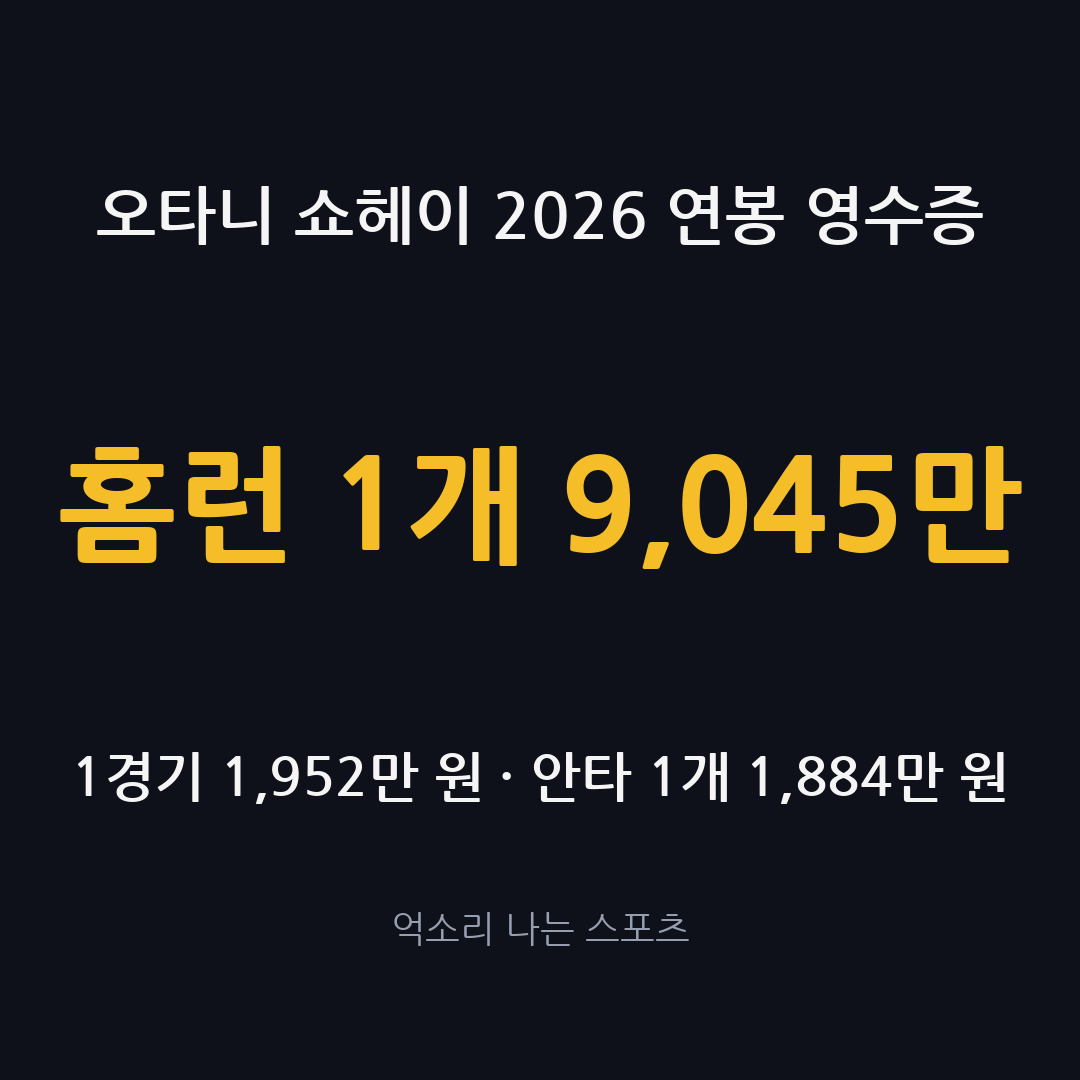
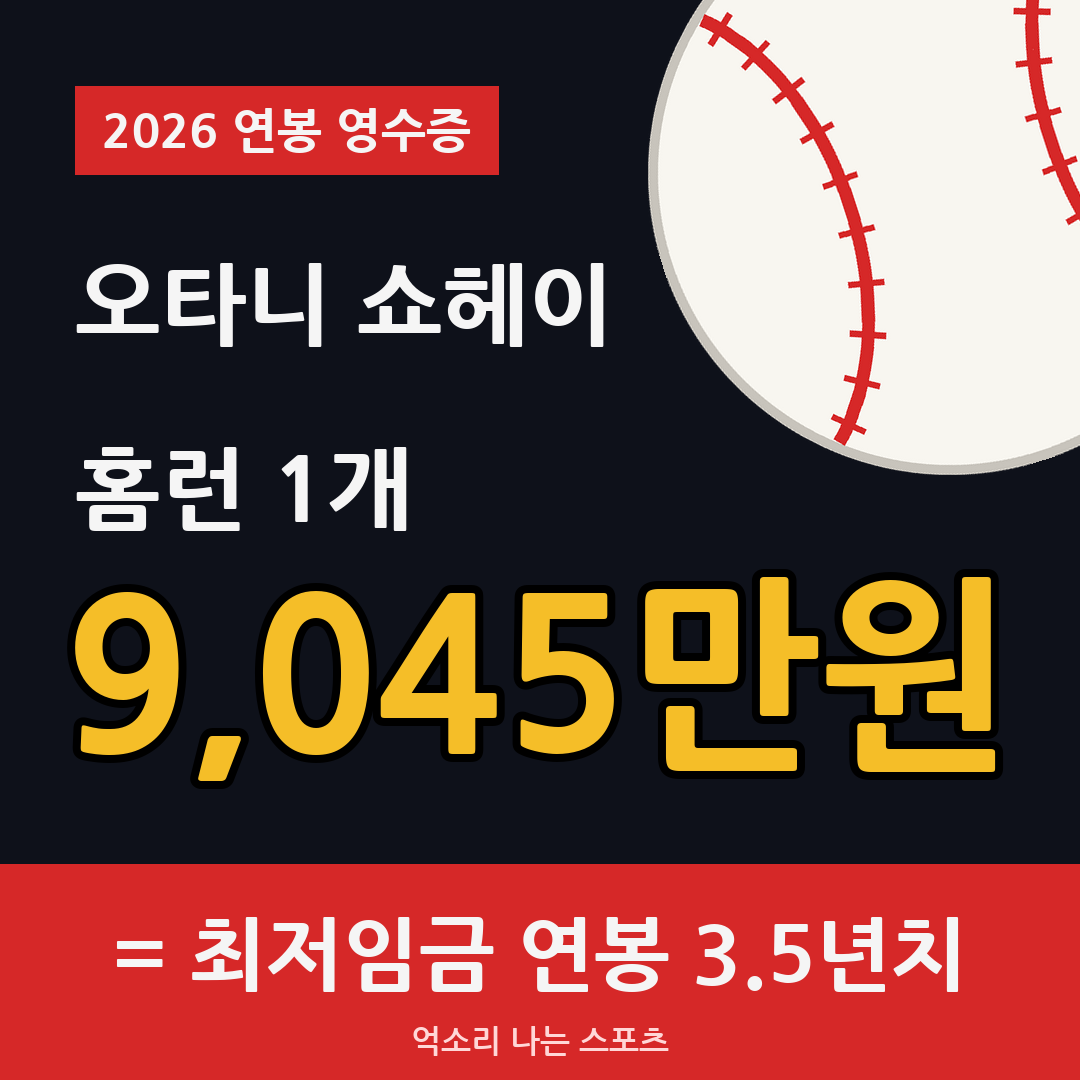
썸네일 강화 + 본문 이미지 4장 (대표 요청)
- 썸네일: 종목 아이콘(코드로 직접 그림, 사진 없음) + 선수 이름 + 아주 큰 금액 + 빨간 띠 '= 최저임금 연봉 N년치'
- 새 이미지: compare.png(최저임금 몇 년치 막대), season.png(시즌 성적 카드, 제목 기록을 금색 첫 칸)
- 자동 글쓰기: 이미지 자리 4개를 글 흐름에 나눠 넣도록 규칙·검사 변경
- 오타니·이정후 발행 대기 글을 새 이미지 4장으로 갱신

Claude-Session: https://claude.ai/code/session_01HNJTaMMcXgMjQhv2iW7WGc

diff --git a/content/receipt.py b/content/receipt.py
@@ -1,6 +1,7 @@
 """선수 몸값 영수증: 연봉을 경기·타수·안타·홈런 단위로 쪼개고, 영수증 그래픽과 홈판 썸네일을 만든다.
 
-계산은 코드로 한다 (14.1). 입력은 posts/<글>/data.yaml, 출력은 같은 폴더의 numbers.json·receipt.png·thumb.png.
+계산은 코드로 한다 (14.1). 입력은 posts/<글>/data.yaml, 출력은 같은 폴더의 numbers.json과
+이미지 4장: thumb.png(홈판 카드), receipt.png(영수증), compare.png(최저임금 비교), season.png(시즌 성적 카드).
 사용법: BRAND_FONT_DIR=/path/to/fonts python -m content.receipt posts/<글>
 """
 from __future__ import annotations
@@ -13,6 +14,7 @@ import yaml
 from PIL import Image, ImageDraw
 
 from .brand import BG, GOLD, GRAY, WHITE, center_text, fit, font
+from .sportsart import icon
 
 PAPER = (250, 247, 238)
 INK = (30, 32, 40)
@@ -120,20 +122,105 @@ def receipt_image(d: dict, n: dict, w: int = 1080) -> Image.Image:
     return im.crop((0, 0, w, min(h, end + int(h * 0.05))))
 
 
+RED = (214, 40, 40)
+TILE = (28, 33, 48)
+
+
+def short_won(x: float) -> str:
+    """썸네일용: 가장 큰 단위만 (2억 32만 원 → 2억원, 9,045만 원 → 9,045만원)."""
+    return won(x).split(" ")[0] + "원"
+
+
 def thumb_image(d: dict, n: dict, w: int = 1080) -> Image.Image:
+    """홈판 카드: 종목 아이콘 + 선수 이름 + 아주 큰 금액 + 빨간 띠(최저임금 비교)."""
     im = Image.new("RGB", (w, w), BG)
+    ball = icon(d.get("sport", "야구"), int(w * 0.56)).rotate(18, resample=Image.BICUBIC)
+    im.paste(ball, (int(w * 0.6), int(-w * 0.12)), ball)
     dr = ImageDraw.Draw(im)
-    center_text(dr, (w / 2, w * 0.2), f"{d['player']} {d['season']} 연봉 영수증", fit(dr, f"{d['player']} {d['season']} 연봉 영수증", "b", int(w * 0.06), w * 0.85), WHITE)
-    us = units(d)
+    tag = f"{d['season']} 연봉 영수증"
+    tf = font("xb", int(w * 0.045))
+    l, t, r, b = dr.textbbox((0, 0), tag, font=tf)
+    x0, y0 = int(w * 0.07), int(w * 0.08)
+    dr.rectangle((x0, y0, x0 + (r - l) + w * 0.05, y0 + (b - t) + w * 0.04), fill=RED)
+    dr.text((x0 + w * 0.025, y0 + w * 0.02 - t), tag, font=tf, fill=WHITE)
+    name = d["player"]
+    dr.text((x0, y0 + w * 0.2), name, font=fit(dr, name, "xb", int(w * 0.12), w * 0.5), fill=WHITE, anchor="lm")
     head = headline(d)
-    label = next(u["label"] for u in us if u["key"] == head)
-    big = f"{label} {won(n['per'][head]).split(' ')[0]}"
-    center_text(dr, (w / 2, w * 0.47), big, fit(dr, big, "xb", int(w * 0.2), w * 0.9), GOLD)
-    others = [u for u in us if u["key"] != head][:2]
-    sub = " · ".join(f"{u['label']} {won(n['per'][u['key']])}" for u in others)
-    if sub:
-        center_text(dr, (w / 2, w * 0.72), sub, fit(dr, sub, "b", int(w * 0.05), w * 0.88), WHITE)
-    center_text(dr, (w / 2, w * 0.86), "억소리 나는 스포츠", font("r", int(w * 0.035)), GRAY)
+    label = next(u["label"] for u in units(d) if u["key"] == head)
+    dr.text((x0, w * 0.45), label, font=font("xb", int(w * 0.085)), fill=WHITE, anchor="lm")
+    big = short_won(n["per"][head])
+    bf = fit(dr, big, "xb", int(w * 0.26), w * 0.88)
+    dr.text((x0 - w * 0.01, w * 0.62), big, font=bf, fill=GOLD, anchor="lm", stroke_width=int(w * 0.008), stroke_fill=(0, 0, 0))
+    band_y = int(w * 0.8)
+    dr.rectangle((0, band_y, w, w), fill=RED)
+    years = n.get("min_wage_years_per", {}).get(head)
+    line = f"= 최저임금 연봉 {years:.1f}년치" if years else f"올해 연봉 {won(n['salary_krw'])}"
+    center_text(dr, (w / 2, band_y + (w - band_y) * 0.42), line, fit(dr, line, "xb", int(w * 0.075), w * 0.9), WHITE)
+    center_text(dr, (w / 2, band_y + (w - band_y) * 0.82), "억소리 나는 스포츠", font("b", int(w * 0.03)), (255, 215, 215))
+    return im
+
+
+def compare_image(d: dict, n: dict, w: int = 1080) -> Image.Image | None:
+    """단위별 금액을 최저임금 연봉 몇 년치인지 막대로. 한 계열이라 한 색, 값은 막대 끝에 직접 표시."""
+    years = n.get("min_wage_years_per")
+    if not years:
+        return None
+    rows = sorted(((u["label"], years[u["key"]]) for u in units(d)), key=lambda x: -x[1])
+    bar_h, gap = int(w * 0.06), int(w * 0.04)
+    top = int(w * 0.3)
+    h = top + len(rows) * (bar_h + gap) + int(w * 0.14)
+    im = Image.new("RGB", (w, h), BG)
+    dr = ImageDraw.Draw(im)
+    dr.text((w * 0.07, w * 0.09), "최저임금으로 치면 몇 년치?", font=font("xb", int(w * 0.058)), fill=WHITE, anchor="lm")
+    sub = f"{d['player']} {d['season']} · 최저임금 1년 = {won(n['min_wage_yearly_krw'])}"
+    dr.text((w * 0.07, w * 0.16), sub, font=fit(dr, sub, "r", int(w * 0.034), w * 0.86), fill=GRAY, anchor="lm")
+    lf, vf = font("b", int(w * 0.04)), font("xb", int(w * 0.042))
+    widest = max(dr.textlength(f"{v:.1f}년", font=vf) for _, v in rows)
+    x0, x1 = int(w * 0.3), int(w * 0.95 - widest - w * 0.02)  # 가장 긴 막대 끝의 값 글자까지 화면 안에
+    scale = (x1 - x0) / max(max(v for _, v in rows), 1.2)
+    ref = x0 + scale  # 1년 기준선
+    for i in range(len(rows) + 1):  # 기준선은 막대 사이 빈칸에만 그어 값 글자와 겹치지 않게
+        ys = top - int(w * 0.03) if i == 0 else top + i * (bar_h + gap) - gap
+        for y in range(ys, ys + (int(w * 0.03) if i == 0 else gap), 14):
+            dr.line((ref, y, ref, y + 7), fill=(90, 96, 112), width=2)
+    dr.text((ref, top - int(w * 0.05)), "1년", font=font("b", int(w * 0.028)), fill=GRAY, anchor="mm")
+    for i, (label, v) in enumerate(rows):
+        y = top + i * (bar_h + gap)
+        dr.text((x0 - w * 0.03, y + bar_h / 2), label, font=lf, fill=WHITE, anchor="rm")
+        end = x0 + max(v * scale, 6)
+        dr.rounded_rectangle((x0, y, end, y + bar_h), radius=8, fill=GOLD)
+        dr.rectangle((x0, y, min(x0 + 8, end), y + bar_h), fill=GOLD)  # 기준선 쪽은 각지게
+        dr.text((end + w * 0.02, y + bar_h / 2), f"{v:.1f}년", font=vf, fill=WHITE, anchor="lm")
+    dr.text((w * 0.93, h - w * 0.05), "억소리 나는 스포츠", font=font("r", int(w * 0.028)), fill=GRAY, anchor="rm")
+    return im
+
+
+def season_image(d: dict, w: int = 1080) -> Image.Image | None:
+    """올 시즌 성적 카드: 큰 숫자 타일 (차트가 아니라 숫자 자체가 주인공)."""
+    card = d.get("card") or []
+    if not card:
+        return None
+    card = card[:6]
+    cols = 2 if len(card) > 3 else len(card)
+    rows = -(-len(card) // cols)
+    pad, gap = int(w * 0.07), int(w * 0.03)
+    tw = (w - 2 * pad - (cols - 1) * gap) / cols
+    th = int(w * 0.24)
+    top = int(w * 0.25)
+    h = top + rows * (th + gap) + int(w * 0.1)
+    im = Image.new("RGB", (w, h), BG)
+    dr = ImageDraw.Draw(im)
+    ball = icon(d.get("sport", "야구"), int(w * 0.12))
+    im.paste(ball, (int(w - pad - w * 0.12), int(w * 0.06)), ball)
+    dr.text((pad, w * 0.09), f"{d['player']} {d['season']} 시즌", font=fit(dr, f"{d['player']} {d['season']} 시즌", "xb", int(w * 0.058), w * 0.7), fill=WHITE, anchor="lm")
+    dr.text((pad, w * 0.16), f"보도 기준 · {d.get('card_date', '')}".rstrip(" ·"), font=font("r", int(w * 0.032)), fill=GRAY, anchor="lm")
+    for i, c in enumerate(card):
+        x = pad + (i % cols) * (tw + gap)
+        y = top + (i // cols) * (th + gap)
+        dr.rounded_rectangle((x, y, x + tw, y + th), radius=18, fill=TILE)
+        val = str(c["value"])
+        center_text(dr, (x + tw / 2, y + th * 0.42), val, fit(dr, val, "xb", int(w * 0.1), tw * 0.85), GOLD if i == 0 else WHITE)
+        center_text(dr, (x + tw / 2, y + th * 0.78), c["label"], fit(dr, c["label"], "b", int(w * 0.038), tw * 0.85), GRAY)
     return im
 
 
@@ -142,6 +229,9 @@ def build(folder: Path, d: dict) -> dict:
     (folder / "numbers.json").write_text(json.dumps(n, ensure_ascii=False, indent=1), encoding="utf-8")
     receipt_image(d, n).save(folder / "receipt.png")
     thumb_image(d, n).save(folder / "thumb.png")
+    for name, img in (("compare.png", compare_image(d, n)), ("season.png", season_image(d))):
+        if img is not None:
+            img.save(folder / name)
     return n
 
 

diff --git a/content/sportsart.py b/content/sportsart.py
@@ -1,0 +1,93 @@
+"""종목 아이콘을 도형으로 직접 그린다 (사진·남의 그림 없음 → 저작권 걱정 없음).
+
+2배 크기로 그린 뒤 줄여서 테두리를 매끄럽게 한다. 돌려주는 것은 투명 배경 RGBA 이미지.
+"""
+from __future__ import annotations
+
+import math
+
+from PIL import Image, ImageDraw
+
+RED = (214, 40, 40)
+INK = (25, 25, 30)
+
+
+def _canvas(size: int):
+    s = size * 2
+    im = Image.new("RGBA", (s, s), (0, 0, 0, 0))
+    return im, ImageDraw.Draw(im), s
+
+
+def _done(im: Image.Image, size: int) -> Image.Image:
+    return im.resize((size, size), Image.LANCZOS)
+
+
+def baseball(size: int) -> Image.Image:
+    im, d, s = _canvas(size)
+    d.ellipse((0, 0, s - 1, s - 1), fill=(248, 246, 240), outline=(200, 196, 188), width=s // 60)
+    r = s / 2
+    for side in (-1, 1):  # 양쪽 실밥: 공 가장자리를 따라 휘는 곡선 + 짧은 바늘땀
+        pts = []
+        for t in range(-60, 61, 3):
+            a = math.radians(t)
+            x = r + side * r * (0.9 - 0.55 * math.cos(a))
+            y = r + r * 0.85 * math.sin(a)
+            pts.append((x, y))
+        d.line(pts, fill=RED, width=s // 45, joint="curve")
+        for (x0, y0), (x1, y1) in zip(pts[2::4], pts[3::4]):
+            nx, ny = -(y1 - y0), x1 - x0
+            n = math.hypot(nx, ny) or 1
+            k = s * 0.03
+            d.line((x0 - nx / n * k, y0 - ny / n * k, x0 + nx / n * k, y0 + ny / n * k), fill=RED, width=s // 90)
+    return _done(im, size)
+
+
+def soccer(size: int) -> Image.Image:
+    im, d, s = _canvas(size)
+    d.ellipse((0, 0, s - 1, s - 1), fill=(248, 248, 248), outline=(190, 190, 195), width=s // 60)
+    r, c = s / 2, s / 2
+
+    def pent(cx, cy, rad, rot):
+        return [(cx + rad * math.cos(math.radians(rot + 72 * i)), cy + rad * math.sin(math.radians(rot + 72 * i)))
+                for i in range(5)]
+
+    center = pent(c, c, r * 0.3, -90)
+    d.polygon(center, fill=INK)
+    for i in range(5):  # 가운데 오각형에서 바깥 오각형으로 선을 잇고, 가장자리에 잘린 오각형
+        a = math.radians(-90 + 72 * i)
+        ox, oy = c + r * 0.78 * math.cos(a), c + r * 0.78 * math.sin(a)
+        d.line((center[i], (c + r * 0.55 * math.cos(a), c + r * 0.55 * math.sin(a))), fill=INK, width=s // 70)
+        d.polygon(pent(ox, oy, r * 0.22, -90 + 72 * i + 36), fill=INK)
+    mask = Image.new("L", (s, s), 0)
+    ImageDraw.Draw(mask).ellipse((0, 0, s - 1, s - 1), fill=255)
+    im.putalpha(Image.composite(im.getchannel("A"), Image.new("L", (s, s), 0), mask))
+    return _done(im, size)
+
+
+def basketball(size: int) -> Image.Image:
+    im, d, s = _canvas(size)
+    d.ellipse((0, 0, s - 1, s - 1), fill=(232, 110, 30), outline=INK, width=s // 50)
+    w = s // 55
+    d.line((s / 2, 0, s / 2, s), fill=INK, width=w)
+    d.line((0, s / 2, s, s / 2), fill=INK, width=w)
+    d.arc((-s * 0.55, s * 0.08, s * 0.42, s * 0.92), -60, 60, fill=INK, width=w)
+    d.arc((s * 0.58, s * 0.08, s * 1.55, s * 0.92), 120, 240, fill=INK, width=w)
+    return _done(im, size)
+
+
+def coin(size: int) -> Image.Image:
+    im, d, s = _canvas(size)
+    d.ellipse((0, 0, s - 1, s - 1), fill=(245, 190, 40), outline=(190, 140, 20), width=s // 30)
+    d.ellipse((s * 0.12, s * 0.12, s * 0.88, s * 0.88), outline=(200, 150, 25), width=s // 60)
+    return _done(im, size)
+
+
+def icon(sport: str, size: int) -> Image.Image:
+    sport = sport or ""
+    if "축구" in sport:
+        return soccer(size)
+    if "농구" in sport:
+        return basketball(size)
+    if "야구" in sport or not sport:
+        return baseball(size)
+    return coin(size)

diff --git a/content/sample_post.py b/content/sample_post.py
@@ -54,6 +54,8 @@ class FakeClaude:
             body = (f"1승에 {win}.\n\n예시선수가 올해 거둔 승리 하나의 값이에요.\n\n[이미지 1_첫문단아래: thumb.png]\n\n"
                     "이 글은 예시예요. 숫자는 모두 가짜고, 모양만 확인하는 용도죠.\n\n"
                     "[이미지 2_영수증: receipt.png]\n\n" + "\n".join(f"{k}에 {v}." for k, v in per.items()) +
+                    "\n\n[이미지 3_최저임금비교: compare.png]\n\n최저임금이랑 비교하면 이래요.\n\n"
+                    "[이미지 4_시즌성적: season.png]\n\n올 시즌 성적은 이랬어요." +
                     "\n\n생각보다 크죠? 내년에는 어떨까요?\n\n기준: 예시 데이터예요. 실제 선수·실제 숫자가 아니에요.")
             return {"gate_pass": True, "info_gain": "예시: 새로 계산한 숫자",
                     "titles": [{"text": f"[예시] 1승에 {win}", "type": "숫자형"},

diff --git a/tests/test_content.py b/tests/test_content.py
@@ -71,7 +71,7 @@ class ContentTest(unittest.TestCase):
 
     def test_check_post(self):
         sheet = "1안타당: 2억 32만 원"
-        good = {"body": "1안타에 2억.\n[이미지 1: thumb.png]\n[이미지 2: receipt.png]", "recommended": 1,
+        good = {"body": "1안타에 2억.\n[1: thumb.png]\n[2: receipt.png]\n[3: compare.png]\n[4: season.png]", "recommended": 1,
                 "titles": [{"text": "1안타에 2억", "type": "숫자형"}] * 5}
         assert check_post(good, sheet) == []
         bad = {**good, "body": good["body"] + "\n토토 배당 3.5배", "titles": [{"text": "1안타에 5억 999만", "type": "숫자형"}] * 5}

diff --git a/posts/2026-09-29-오타니-영수증/post.md b/posts/2026-09-29-오타니-영수증/post.md
@@ -19,6 +19,8 @@
 | --- | --- | --- | --- |
 | 1 | thumb.png | 첫 문단 아래 | ✅ 대표이미지로 지정 |
 | 2 | receipt.png | 영수증 설명 위 | |
+| 3 | compare.png | 최저임금 비교 위 | |
+| 4 | season.png | 시즌 성적 위 | |
 
 ## 카테고리 · 태그
 
@@ -48,11 +50,15 @@
 
 이번에도 감이 안 오죠?
 
+[이미지 3_최저임금비교: compare.png]
+
 올해 최저임금으로 1년 꼬박 일하면 약 2,588만 원을 받아요. 시급 10,320원에 월 209시간 기준이에요.
 
 오타니가 1경기 뛰면 최저임금 연봉 0.8년치예요. 안타 하나는 0.7년치, 1이닝 던지면 1.2년치고요. 홈런 한 방은 3.5년치예요.
 
 억 소리 나네.
+
+[이미지 4_시즌성적: season.png]
 
 그런데 올해 오타니는 한 사람이 두 몫을 했어요. 타자로 139경기에 나와 144안타, 30홈런을 쳤고요. 투수로도 14경기에 올라 85.2이닝을 던져 8승, 평균자책점 1.79를 기록했어요.
 
@@ -96,4 +102,4 @@
 
 ## 실험 기록용
 
-- 추천 제목 유형: 숫자형 · 교차 비교: 오타니 올해 연봉을 최저임금 1년치(2,588만 원)와 비교: 1경기 0.8년치, 안타 0.7년치, 1이닝 1.2년치, 홈런 1개 3.5년치 · 이미지 2 · 참고 기사 75건
+- 추천 제목 유형: 숫자형 · 교차 비교: 오타니 올해 연봉을 최저임금 1년치(2,588만 원)와 비교: 1경기 0.8년치, 안타 0.7년치, 1이닝 1.2년치, 홈런 1개 3.5년치 · 이미지 4 · 참고 기사 75건

diff --git a/posts/2026-10-01-이정후-영수증/post.md b/posts/2026-10-01-이정후-영수증/post.md
@@ -17,6 +17,8 @@
 | --- | --- | --- | --- |
 | 1 | thumb.png | 첫 문단 아래 | ✅ 대표이미지로 지정 |
 | 2 | receipt.png | 영수증 설명 위 | |
+| 3 | compare.png | 최저임금 비교 위 | |
+| 4 | season.png | 시즌 성적 위 | |
 
 ## 카테고리 · 태그
 
@@ -44,11 +46,15 @@
 
 숫자가 너무 커서 감이 안 오죠?
 
+[이미지 3_최저임금비교: compare.png]
+
 그래서 최저임금이랑 비교해 봤어요. 올해 최저임금으로 1년 꼬박 일하면 약 2,588만 원을 받아요. 월 209시간 기준이에요.
 
 이정후가 타석에 한 번 들어서면 최저임금 연봉 2.1년치예요. 안타 하나면 7.7년치고요. 홈런 한 방은 115년치예요.
 
 억 소리 나네.
+
+[이미지 4_시즌성적: season.png]
 
 그런데 올해 이정후가 부진했던 건 아니에요. 143경기에서 타율 0.276, 홈런 10개, 도루 12개를 기록했어요. 보도에 따르면 메이저리그에 와서 가장 좋은 성적이에요. 팀에서 타율도 안타도 제일 많았고요.
 
@@ -87,4 +93,4 @@
 
 ## 실험 기록용
 
-- 제목 유형: 숫자형 · 글 유형: 정보형 · 이미지 2 · 본문 문장 37 · 교차 비교: 최저임금
+- 제목 유형: 숫자형 · 글 유형: 정보형 · 이미지 4 · 본문 문장 37 · 교차 비교: 최저임금
